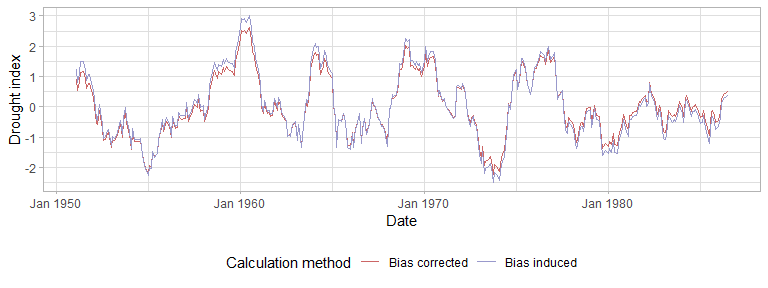
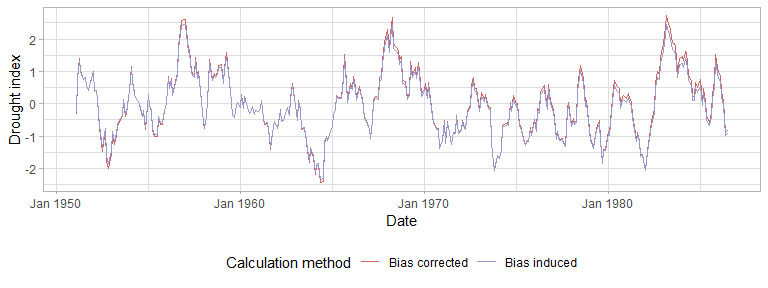
updating README

Changed region(s): [[0.0312, 0.0312, 1.0, 0.6562]]

diff --git a/README.md b/README.md
@@ -5,10 +5,16 @@ droughtR
 
 <img src="https://raw.githubusercontent.com/mammask/droughtr/main/man/figures/droughtR.png" align = "right" width = 120/>
 
-droughtR is an R for package that enables drought monitoring. It
-computes the Standardized Precipitation Index (SPI) and the
+`droughtR` is an R for package that enables meteorological drought
+monitoring by generating non-stationary drought indices under various
+distributional assumptions (Normal, Gamma, Zero Inflated Gamma and
+Weibull). It computes the Standardized Precipitation Index (SPI) and the
 Non-Standardized Precipitation Index (NSPI) using General Additive
 Models for Location Scale and Shape (GAMLSS).
+
+Since drought indices are used in various forecasting applications,
+`droughtR` computes potential biases introduced to the training data due
+to incorrect computation of the index.
 
 ## Installation
 
@@ -33,9 +39,9 @@ rain = dummyrainfall(startYear = 1950, endYear = 2010)
 
 # Compute the non-stationary standardized precipitation index (NSPI) for scale 12 using GAMLSS
 drought = computenspi(x = rain, stationaryspi = FALSE, spiScale = 12, dist = 'gamma')
-#> GAMLSS-RS iteration 1: Global Deviance = 3506.462 
-#> GAMLSS-RS iteration 2: Global Deviance = 3506.454 
-#> GAMLSS-RS iteration 3: Global Deviance = 3506.454
+#> GAMLSS-RS iteration 1: Global Deviance = 3507.926 
+#> GAMLSS-RS iteration 2: Global Deviance = 3507.778 
+#> GAMLSS-RS iteration 3: Global Deviance = 3507.778
 
 # Plot NSPI
 plot(drought)
@@ -53,17 +59,17 @@ Split the rainfall series into training validation and test set:
 rain = oossplit(x = rain, trainratio = 0.6, validationratio = 0.2, testratio = 0.2)
 print(rain)
 #>          Date  Rainfall Split
-#>   1: Jan 1950  8.046479 Train
-#>   2: Feb 1950  8.398823 Train
-#>   3: Mar 1950  7.261824 Train
-#>   4: Apr 1950  7.969266 Train
-#>   5: May 1950  5.636277 Train
+#>   1: Jan 1950  6.842833 Train
+#>   2: Feb 1950 10.474097 Train
+#>   3: Mar 1950  9.006482 Train
+#>   4: Apr 1950 10.382735 Train
+#>   5: May 1950  7.735118 Train
 #>  ---                         
-#> 606: Jul 2010  7.496439  Test
-#> 607: Aug 2010  8.363361  Test
-#> 608: Sep 2010  8.578427  Test
-#> 609: Oct 2010  7.490492  Test
-#> 610: Nov 2010 14.657480  Test
+#> 606: Jul 2010  6.536480  Test
+#> 607: Aug 2010  8.233482  Test
+#> 608: Sep 2010 10.954110  Test
+#> 609: Oct 2010 10.386162  Test
+#> 610: Nov 2010  8.208174  Test
 ```
 
 #### Bias measurement
@@ -92,30 +98,30 @@ rain = dummyrainfall(startYear = 1950, endYear = 2010)
 
 # Compute bias
 bias = measurebias(x = rain, trainratio = 0.6, validationratio = 0.2, testratio = 0.2, stationaryspi = TRUE, spiscale = 12, dist = 'normal')
-#> GAMLSS-RS iteration 1: Global Deviance = 2190.665 
-#> GAMLSS-RS iteration 2: Global Deviance = 2190.665 
-#> GAMLSS-RS iteration 1: Global Deviance = 3568.695 
-#> GAMLSS-RS iteration 2: Global Deviance = 3568.695
+#> GAMLSS-RS iteration 1: Global Deviance = 1962.629 
+#> GAMLSS-RS iteration 2: Global Deviance = 1962.629 
+#> GAMLSS-RS iteration 1: Global Deviance = 3381.236 
+#> GAMLSS-RS iteration 2: Global Deviance = 3381.236
 bias
 #> $Transitions
 #>     Bias Corrected Class Bias Induced Class   N
-#>  1:          Near Normal     Moderately Wet   8
-#>  2:          Near Normal        Near Normal 204
-#>  3:       Moderately Wet           Very Wet  18
-#>  4:       Moderately Dry     Moderately Dry  26
-#>  5:       Moderately Dry        Near Normal   3
-#>  6:             Very Dry           Very Dry   9
-#>  7:        Extremely Dry      Extremely Dry   6
-#>  8:             Very Dry      Extremely Dry   6
-#>  9:       Moderately Wet     Moderately Wet  24
-#> 10:             Very Wet           Very Wet  15
-#> 11:             Very Wet      Extremely Wet   9
-#> 12:        Extremely Wet      Extremely Wet   9
-#> 13:          Near Normal     Moderately Dry   9
-#> 14:       Moderately Dry           Very Dry   9
+#>  1:          Near Normal        Near Normal 234
+#>  2:       Moderately Wet     Moderately Wet  18
+#>  3:             Very Dry     Moderately Dry   2
+#>  4:       Moderately Dry     Moderately Dry  34
+#>  5:             Very Dry           Very Dry  13
+#>  6:        Extremely Dry           Very Dry   1
+#>  7:       Moderately Dry        Near Normal   4
+#>  8:             Very Wet           Very Wet  13
+#>  9:        Extremely Wet      Extremely Wet  11
+#> 10:       Moderately Wet        Near Normal   8
+#> 11:        Extremely Dry      Extremely Dry   5
+#> 12:             Very Wet     Moderately Wet   6
+#> 13:          Near Normal     Moderately Dry   5
+#> 14:       Moderately Dry           Very Dry   1
 #> 
 #> $`Impacted Records`
-#> [1] "17.46% of records changed drought class"
+#> [1] "7.61% of records changed drought class"
 #> 
 #> $Plot
 ```
